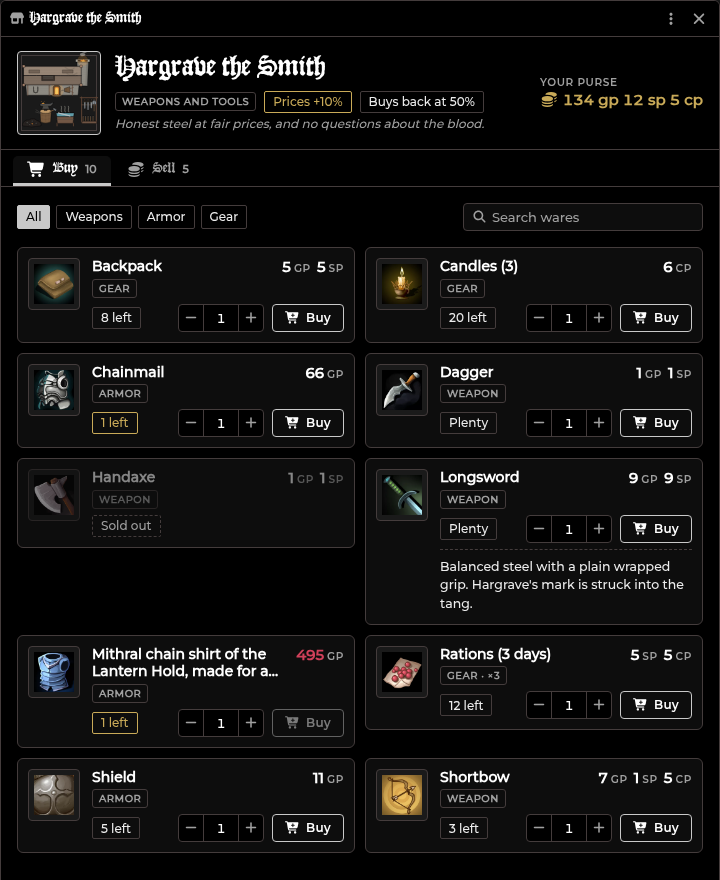
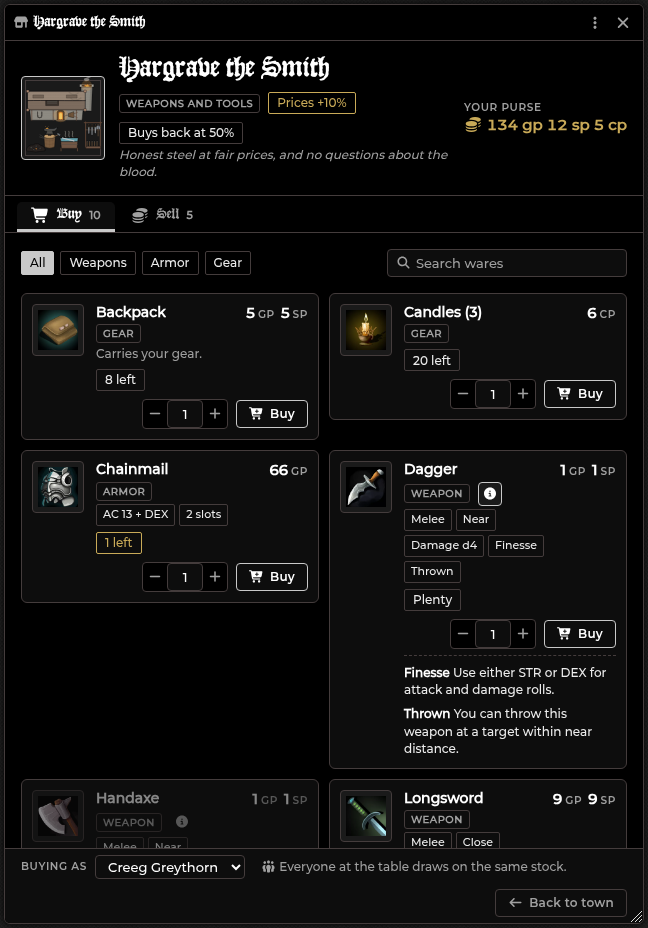
feat(town): every ware says what it is: facts from its stats, a short description, and Details
Most weapons and armor in the system's gear have no written description, and the full text only
opened on a click that nothing pointed to, so a buyer could not tell a Dagger from a Handaxe. Each
card now shows facts read from the item's own stats (a weapon's kind, range, damage and the names
of its properties; an armor's AC; the slots it takes), the start of its description under the name,
and an info button that opens the whole description and what each property does (the property
items are read from the compendium links the system keeps). Pure `wareFacts` in town-view.mjs,
tested against the real shapes of a dagger, a bow, a bastard sword, leather armor, plate and a shield.

Changed region(s): [[0.0, 0.0, 1.0, 1.0]]

diff --git a/styles/shadowdark-enhancer.css b/styles/shadowdark-enhancer.css
@@ -5812,3 +5812,12 @@ button.sde-hud-day:hover { border-color: var(--sd-frame); }
 .sde-ui .tg-play { grid-area: play; display: flex; flex-wrap: wrap; gap: 8px; justify-content: flex-end; }
 .sde-ui .tg-result { display: flex; flex-direction: column; gap: 2px; font-size: 13.5px; }
 .sde-ui .tg-result b { font: 400 19px/1.2 var(--ui-title); color: var(--ui-text); }
+
+/* ── what a ware is: its facts and a short description on the card, the rest under Details ─────────── */
+.sde-ui .tl-facts { display: flex; flex-wrap: wrap; gap: 4px; }
+.sde-ui .tl-facts .ui-chip { font-size: 11px; padding: 0 6px; }
+.sde-ui .tl-blurb { margin: 0; font-size: 12px; line-height: 1.4; color: var(--ui-muted); display: -webkit-box; -webkit-box-orient: vertical; -webkit-line-clamp: 2; overflow: hidden; }
+.sde-ui .tl-ware-more { grid-column: 2 / -1; display: flex; flex-direction: column; gap: 6px; padding-top: 8px; border-top: 1px dashed var(--ui-line); }
+.sde-ui .tl-ware-more .tl-ware-desc { padding: 0; border: 0; }
+.sde-ui .tl-rules { list-style: none; margin: 0; padding: 0; display: flex; flex-direction: column; gap: 3px; font-size: 12px; line-height: 1.45; color: var(--ui-body); }
+.sde-ui .tl-rules b { color: var(--ui-text); }

diff --git a/CHANGELOG.md b/CHANGELOG.md
@@ -4,7 +4,7 @@
 
 ### Added
 
-- **A landing page for a scene: the picture fills the screen, a menu runs down the right, and the players shop and read their quests with you not connected.** Press the Landing page button in the Token Controls (or Alt+T) on any scene: the first time it makes an empty page for that scene and puts it up for everyone on it, and pressing it again takes it away from everyone (the page and its merchants are kept). The pencil on the page opens its settings: name the town, pick the NPCs that are its merchants, and set each one's role, pitch, prices and buy-back. The menu lists the merchants and opens the Quest Log, the Journals, the Party and Downtime; it stays clear of Foundry's sidebar and drops below the Crawl Strip when that would cover its title, and a player can close and reopen their own copy while it is up. A merchant's shop is its NPC's own items, so a player buys and sells as their character with no GM connected: a buy only changes the buyer, and what is left on the shelf is the NPC's quantity less what every character has bought. A GM can make a ware never run out and restock one merchant or every shop; a restock writes nothing to any player. The GM can also open a games table on the page (a coin toss, a dice duel, a fortune wheel and a card draw, played with the player's own coins, with a largest bet and a house share of winnings set per town; it needs no GM connected), and a sales log that lists every purchase, sale and game at the town's tables with the town's totals, read from the chat cards so it works with no GM connected. See [Town Landing Page](docs/wiki/Town-Landing-Page.md).
+- **A landing page for a scene: the picture fills the screen, a menu runs down the right, and the players shop and read their quests with you not connected.** Press the Landing page button in the Token Controls (or Alt+T) on any scene: the first time it makes an empty page for that scene and puts it up for everyone on it, and pressing it again takes it away from everyone (the page and its merchants are kept). The pencil on the page opens its settings: name the town, pick the NPCs that are its merchants, and set each one's role, pitch, prices and buy-back. The menu lists the merchants and opens the Quest Log, the Journals, the Party and Downtime; it stays clear of Foundry's sidebar and drops below the Crawl Strip when that would cover its title, and a player can close and reopen their own copy while it is up. A merchant's shop is its NPC's own items, so a player buys and sells as their character with no GM connected: a buy only changes the buyer, and what is left on the shelf is the NPC's quantity less what every character has bought. Every ware shows what it is, from the item's own stats (a weapon's range, damage and properties, an armor's AC, the slots it takes) and the start of its description, with an info button for the rest. A GM can make a ware never run out and restock one merchant or every shop; a restock writes nothing to any player. The GM can also open a games table on the page (a coin toss, a dice duel, a fortune wheel and a card draw, played with the player's own coins, with a largest bet and a house share of winnings set per town; it needs no GM connected), and a sales log that lists every purchase, sale and game at the town's tables with the town's totals, read from the chat cards so it works with no GM connected. See [Town Landing Page](docs/wiki/Town-Landing-Page.md).
 - **Origins has a dice button on Alignment, Background and Deity.** Each section header in the Character Builder's Origins tab rolls just that one pick, so you can re-roll a background without losing the alignment or deity you chose. The footer **Random** still rolls all three. The buttons are hidden when you edit an existing character, and the Deity roller is greyed out when your class fixes the deity.
 
 ## [0.19.0] — 2026-10-14

diff --git a/docs/FILE-INVENTORY.md b/docs/FILE-INVENTORY.md
@@ -1,7 +1,7 @@
 # Shadowdark Enhancer — File Inventory
 
 <!-- inventory:stats:start -->
-2021 tracked files · ~258,200 lines of code/markup across scripts+templates+styles+test.
+2021 tracked files · ~258,300 lines of code/markup across scripts+templates+styles+test.
 `v0.19.0` in both `module.json` and `package.json`.
 <!-- inventory:stats:end -->
 **Layout reflects the 2026-07-21 feature-folder reorganization (v0.11.0 cycle).**
@@ -644,10 +644,10 @@ A place the party owns: the four types and twenty upgrades, built a week at a ti
 | File | Lines | Description |
 |---|---:|---|
 | `town-core.mjs` | 139 | A town's landing page flag: merchants as NPC references, restock revision, the games table, the table switch, the editor's form folded in (pure). |
-| `town-view.mjs` | 88 | What the Town window and the shopfront show: ware cards, sell rows, tiles, the buyer (pure). |
+| `town-view.mjs` | 121 | What the Town window and the shopfront show: ware cards, sell rows, tiles, the buyer (pure). |
 | `town-live.mjs` | 47 | What the town windows share on the Foundry side: the buyer, redrawing on change, the table switch, the tiles' windows. |
 | `town-app.mjs` | 143 | The landing page menu over the scene's picture: merchants, tiles, the GM's pencil, sales log, restock and switch; clear of the sidebar and the Crawl Strip. |
-| `town-shop-app.mjs` | 168 | One merchant's shopfront: buy and sell as a chosen character with no GM, categories, search. |
+| `town-shop-app.mjs` | 184 | One merchant's shopfront: buy and sell as a chosen character with no GM, categories, search. |
 | `town-editor-app.mjs` | 132 | The GM's landing page editor window: town text, tiles, games table, merchants. |
 | `town-entry-points.mjs` | 88 | The Landing page toolbar button and Alt+T: one switch for the table, the page made on any scene, followed by every client. |
 | `games-core.mjs` | 96 | The town's four games of chance, the house's cut and the wager limits (pure). |

diff --git a/docs/wiki/Town-Landing-Page.md b/docs/wiki/Town-Landing-Page.md
@@ -99,7 +99,13 @@ Change the key under *Configure Controls*.
   starts as the selected token's character, else the one assigned to the
   account.
 - **Filter and search.** The chips filter by Weapons, Armor and Gear; the
-  search box narrows by name. Click a ware's name to read its description.
+  search box narrows by name.
+- **What a ware is.** Every card shows facts read from the item's own stats, so
+  a ware with no written description still says what it is: a weapon's kind,
+  range, damage and properties (Melee, Near, Damage d4, Finesse, Thrown), an
+  armor's AC (AC 13 + DEX, +2 AC for a shield), and how many slots it takes. The
+  start of the item's description sits under the name. The **info** button (or a
+  click on the name) opens the whole description and what each property does.
 - **Buy.** Set the quantity with the stepper and press **Buy**. Coins come off
   the character's purse and the item lands on its sheet. A ware that costs more
   than the purse shows its price in red and cannot be bought. Gear sold in
